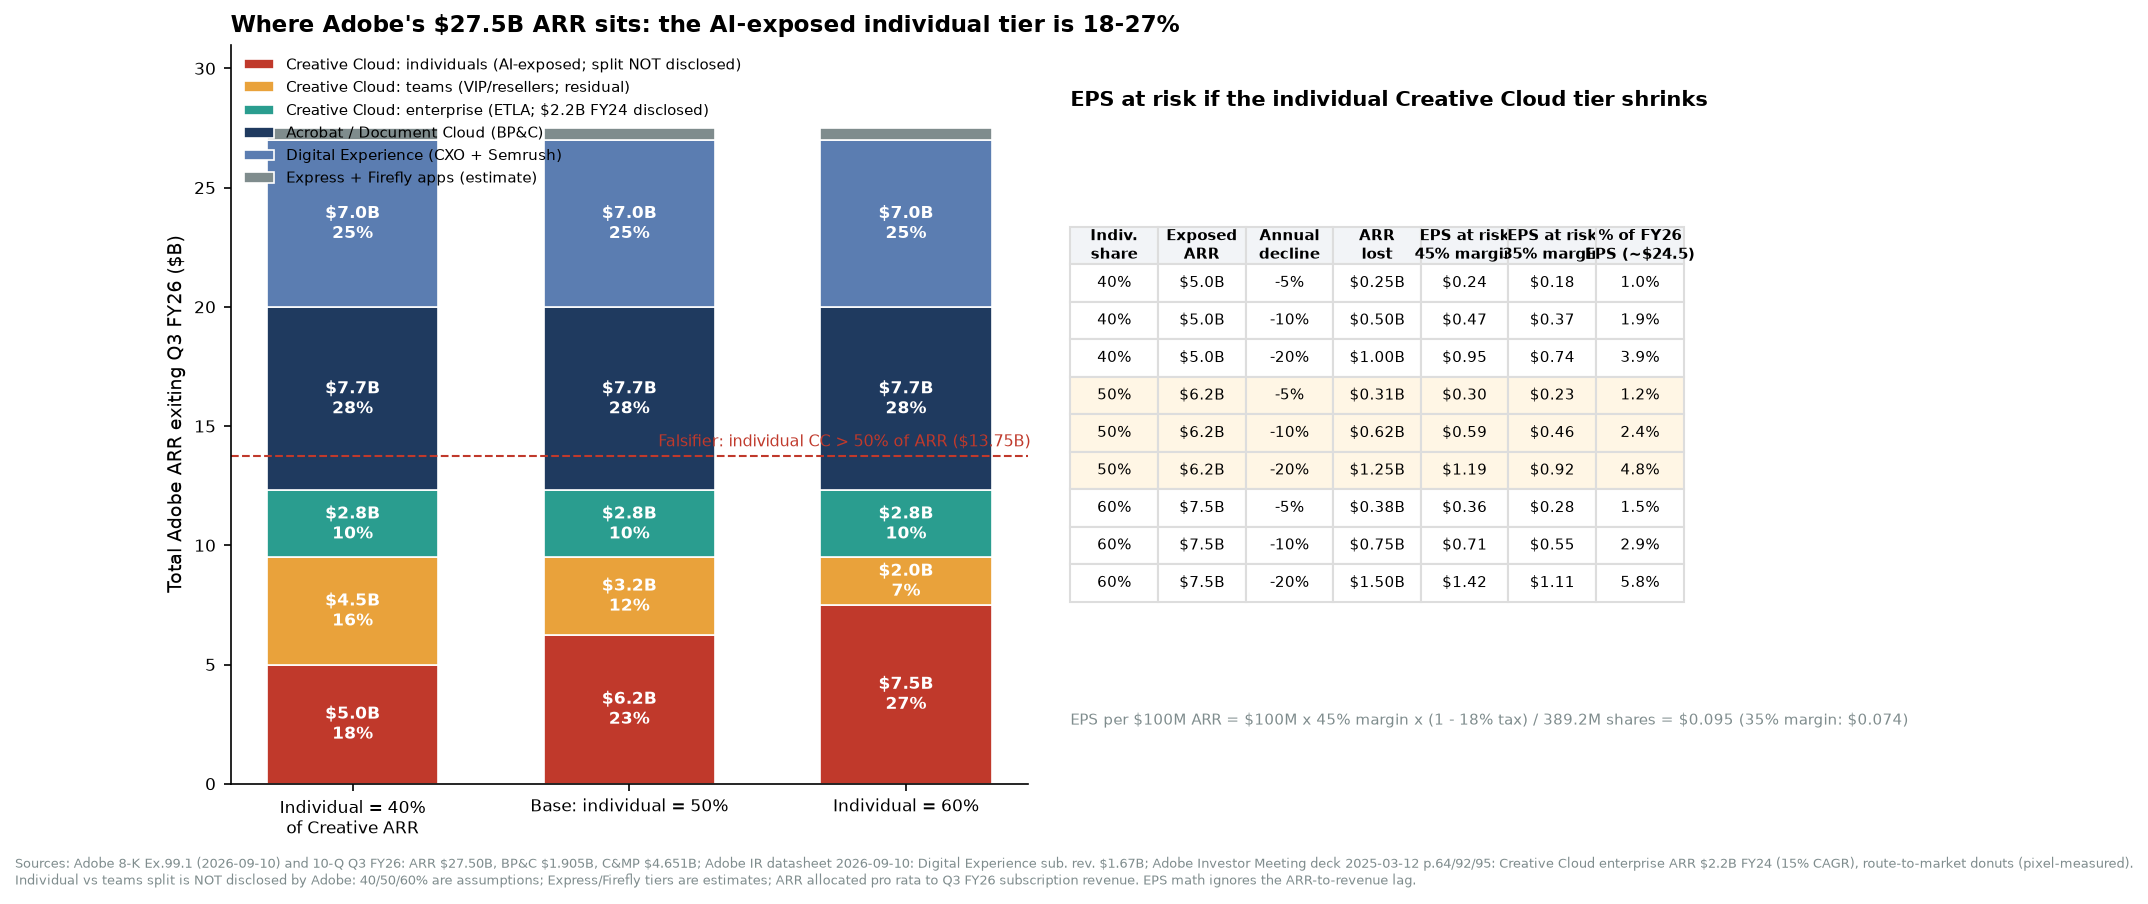
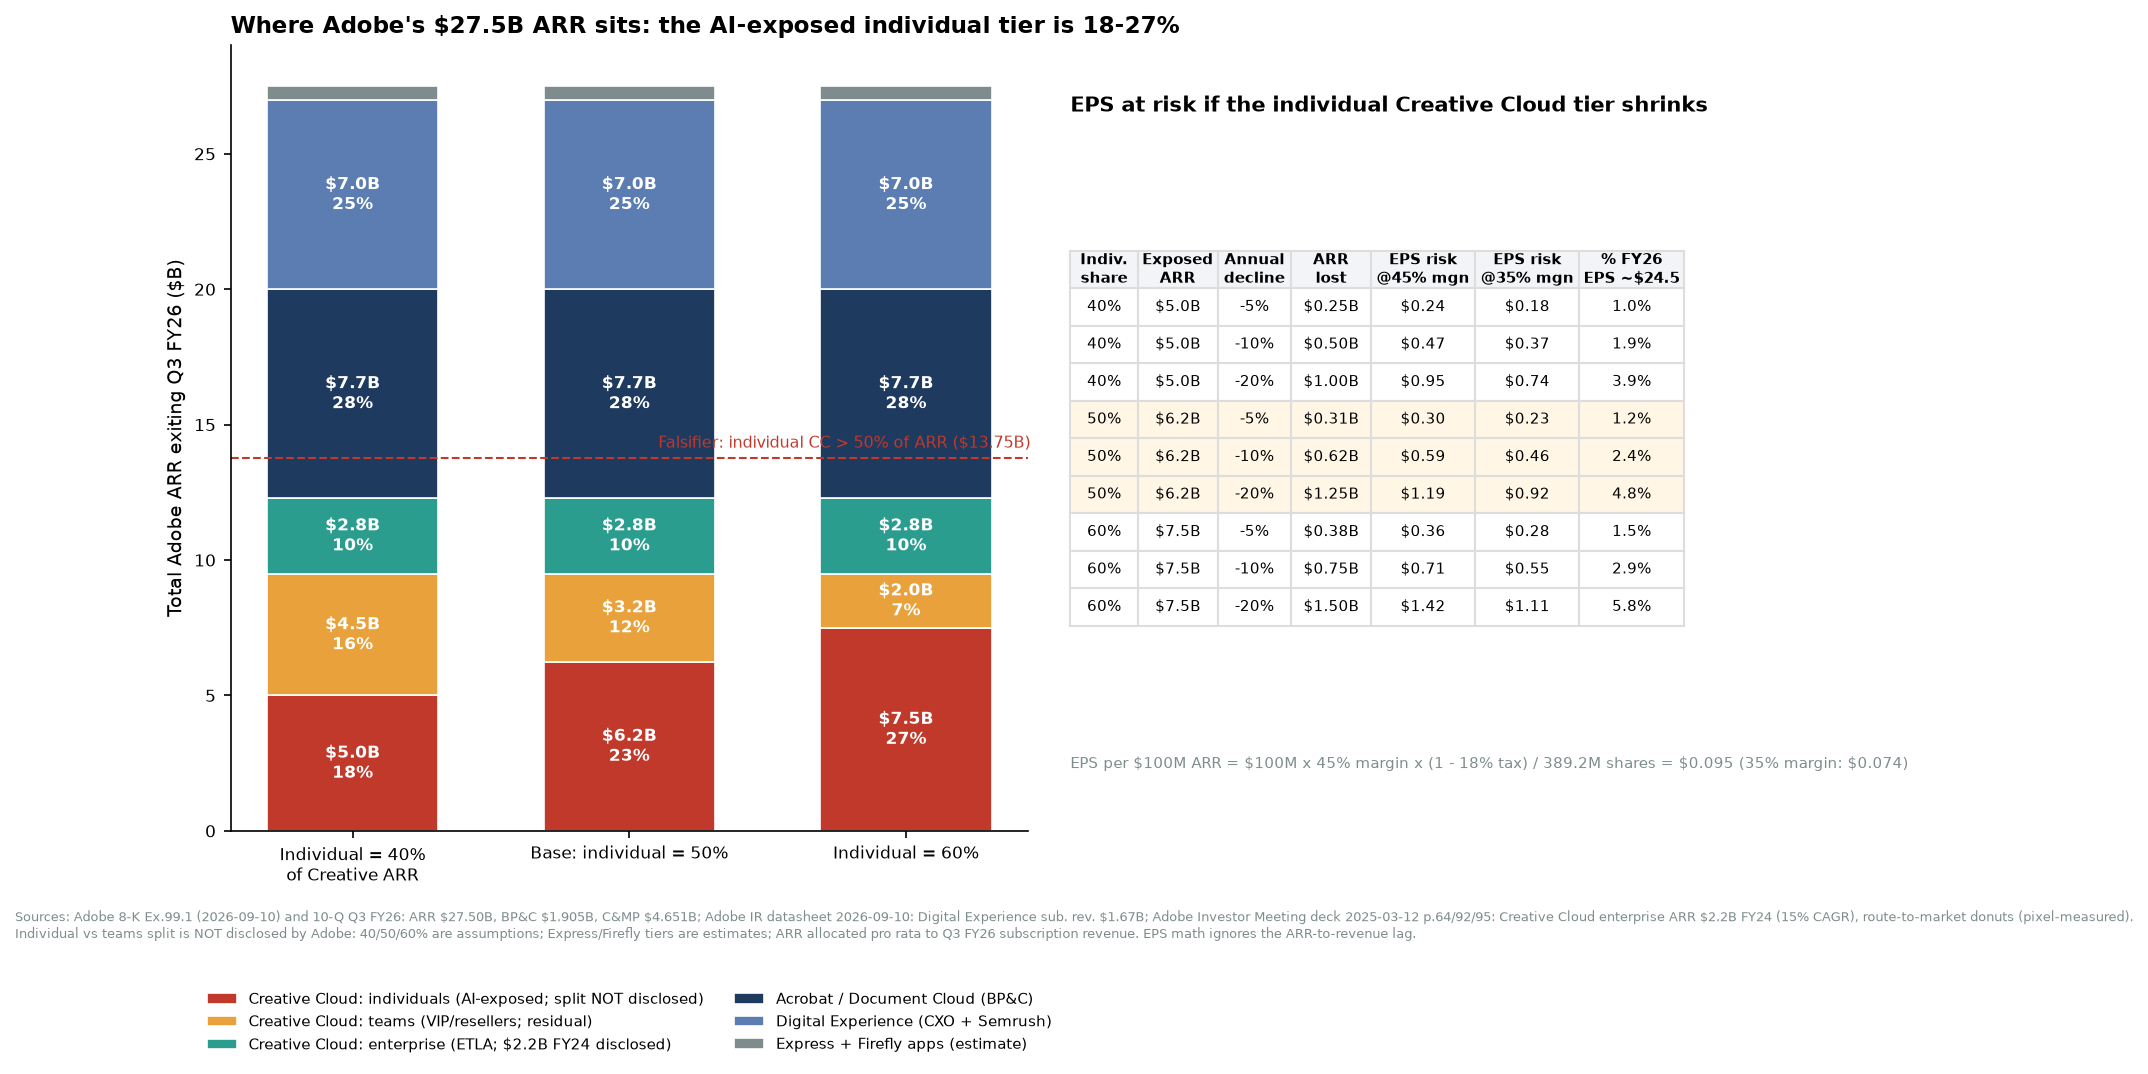
Add C1 revenue-mix workstream: customer-group series, RPO, exposure tiers, peers, O*NET, Ramp, EPS at risk
Claude-Session: https://claude.ai/code/session_0135sjqnFfhmo5TP2aRhoENx

diff --git a/research/tri/c1_mix/methods.md b/research/tri/c1_mix/methods.md
@@ -1,0 +1,36 @@
+# C1 (revenue mix) — methods
+
+Subagent A, 2026-10-02. Contention C1: "Most revenue sits where AI makes Adobe harder to replace (documents, teams/enterprise)."
+Falsifier: individual Creative Cloud > 50% of total ARR, or teams/enterprise Creative Cloud growth below individual growth.
+
+## Host probes (curl -m 12, UA "adbe-pitch-research/1.0 (mmaneet2007@gmail.com)")
+| host / URL | result | used for |
+|---|---|---|
+| www.sec.gov EDGAR browse + Archives | 200 (Archives need -L: 301 on /data/0000796343/...) | Adobe 8-K Ex.99.1 FY24Q1-FY26Q3, 10-Q Q3 FY26, 10-K FY25; DocuSign 8-K/10-Q; Figma 10-Q |
+| efts.sec.gov full-text search | 500 | not used (browse-edgar index used instead) |
+| adobe.com IR transcript PDFs (q2fy26, q3fy26) | 200 | pypdf text, saved in scratchpad only |
+| adobe.com IR financial-documents page, investor datasheet PDFs (Sept 10 2026; Jun 11 2026), Summit 2026 Q&A, Investor Meeting Mar 12 2025 deck (109 pp, image-only) | 200 | ARR/RPO/cRPO/DX series; route-to-market and CC enterprise ARR slides (rendered with pdftoppm, read visually, donuts pixel-measured) |
+| www.onetonline.org summary/details/demand pages, hot_tech list, Software_Skills CSV export | 200 (1.5 s between requests) | O*NET technology skills, In Demand posting shares, national Hot Technology posting counts |
+| ramp.com/data, /data/ai-index (10 MB RSC payload with embedded JSON), /vendors/{canva,figma,openai}, /vendors/categories/* | 200; /vendors/adobe and 5 Adobe slug variants 404; /vendors/docusign 404 | Ramp AI Index series; Ramp Rate vendor pages |
+| query1.finance.yahoo.com chart API | 200 | ADBE close 2026-10-01 = $241.28 (verified) |
+| www.fool.com DocuSign Q2 FY27 transcript | 200 | DNR 103% quote |
+| investor.docusign.com, investor.figma.com, www.canva.com, www.inc.com | 403/404 | fell back to EDGAR / WebSearch; logged in NEEDS_MANUAL |
+
+## Steps
+1. Verified starting facts: price $241.28 (Yahoo daily close 2026-10-01; 10-02 intraday 237.68), shares 389.2M (10-Q cover, as of 2026-09-18), Q3 FY26 C&MP $4,651M vs $4,117M, BP&C $1,905M vs $1,648M, 9M $13,577M/$12,058M and $5,540M/$4,777M (10-Q), ARR $27.50B (+11.2%), FY25 DX subscription $5.41B (8-K Q4 FY25), Semrush closed 2026-04-28 for $1.87B (10-Q Note 3), ~$480M ARR / ~$40M Q2 revenue (8-K Q2 FY26). All matched the prior revenue_quarterly.csv; FY24 C&MP/BP&C there were DERIVED, now replaced by Adobe's recast datasheet values (data/customer_group_revenue_quarterly.csv).
+2. RPO/cRPO FY24Q1-FY26Q3 from 8-K press releases, 10-K FY25 and 10-Q Q3 FY26, cross-checked to the IR datasheet (data/rpo_series.csv).
+3. Quotes (<25 words) extracted from the Q2/Q3 FY26 FactSet corrected transcripts with speaker and date (data/management_quotes.csv). Raw PDFs/text kept in scratchpad only.
+4. Exposure tiers (data/exposure_tiers.csv): Total ARR allocated pro rata to Q3 FY26 subscription revenue (BP&C / DX / C&MP-ex-DX). Creative Cloud enterprise ARR taken from the Investor Meeting deck ($2.2B FY24, 15% CAGR) and grown 1.75 years. Route-to-market donuts (no printed %) were measured by sampling ring pixels at 720 angles: BP&C enterprise ~19%, C&MP enterprise ~46-50% (= Digital Experience $1.30B + ~$0.5B/qtr Creative Cloud enterprise in Q1 FY25, consistent with the $2.2B ARR disclosure). Individual vs teams is NOT disclosed: 40/50/60% sensitivity.
+5. EPS at risk (data/eps_at_risk.csv): $100M ARR x margin x (1-18%) / 389.2M shares = $0.0948 (45%) / $0.0737 (35%); applied to 5/10/20% declines in the individual tier under each sensitivity; FY26 reference EPS = 9M $18.15 + Q4 guide midpoint $6.325 = $24.48.
+6. Peers: DocuSign (8-K Q2 FY27, 10-Q, fool.com transcript), Figma (10-Q Q2 2026 on EDGAR), Canva (secondary; prior ws5 file) -> data/peer_metrics.csv.
+7. Industry: O*NET In Demand pages expose "Percentage" = unique Lightcast postings mentioning the skill / all unique postings for the occupation, Jan 1-Dec 31 2025; Hot Technology list exposes national unique postings out of 46,885,153. Site updated Aug 25 2026; occupation pages "Updated 2026" (no numbered DB release printed on the page) -> data/onet_tech_skills.csv, data/onet_hot_tech_national.csv.
+8. Alt: Ramp AI Index arrays (adoptionOverall, adoptionVendor, adoptionSize) parsed from the page payload; Ramp Rate vendor/category pages -> data/ramp_ai_index.csv.
+
+## Assumptions and limitations
+- ARR-by-tier is a reconstruction; Adobe discloses only two customer groups and total ARR. Pro-rata allocation assumes ARR/revenue ratio is uniform across groups (true ratio 1.049 overall).
+- Creative Cloud enterprise ARR after FY24 is extrapolated (ESTIMATE). Express and consumer Firefly ARR are estimates ($0.3B/$0.2B).
+- Donut pixel measurement: the calibration donut (customer groups, true C&MP share 72.3%) read 60-62% with a clipped render, so treat route shares as +/-5-10 pts; the BP&C and C&MP route donuts were sampled over the full ring (720/720 points) and are more reliable than the FY24 total donut.
+- Teams vs individual growth is not disclosed; the falsifier's second leg is judged on (a) FY21-24 CC enterprise ARR CAGR 15% vs CC subscriptions ex-enterprise ~10% (deck p.85), and (b) FY26 management language (teams/enterprise "continued strength" vs individual ARR expectations lowered). Both are company sources.
+- Peer evidence is adjacent, not identical: Figma competes in UI design, Canva in communicator/SMB design, DocuSign in agreements.
+- O*NET posting shares are 2025 calendar-year postings; they measure stated skill requirements, not seat purchases.
+- Ramp publishes no Adobe vendor data; Ramp Rate adoption rates are shares of buyers within a software category on Ramp's platform, not of all businesses.

diff --git a/research/tri/c1_mix/findings.md b/research/tri/c1_mix/findings.md
@@ -1,0 +1,13 @@
+# C1 findings — revenue mix (Subagent A, 2026-10-02)
+
+**Verdict: C1 SUPPORTED (confidence medium-high on mix, medium on growth); falsifier NOT triggered.**
+
+**Company (SUPPORTS).** Q3 FY26: BP&C (Acrobat/Express) $1.905B +16% vs C&MP $4.651B +13%; 9M +16.0% vs +12.6%. BP&C share of subscription revenue rose from 27.4% (Q1 FY24) to 29.1%. Reconstructed ARR tiers ($27.5B, base case): Acrobat/Document $7.7B (28%), Digital Experience $7.0B (25%), Creative enterprise $2.8B (10%), Creative teams $3.2B (12%), **individual Creative $6.3B (23%)**, Express/Firefly $0.5B. Sensitivity 40/60%: individual $5.0-7.5B = 18-27% of ARR, never near the 50% falsifier. Hard anchor: Adobe's Mar-2025 Investor Meeting deck: Creative Cloud *enterprise* ARR only $2.2B in FY24 (15% CAGR vs ~10% for non-enterprise subscriptions). CFO Sep 10 2026: "continued strength in Creative Cloud across our Teams and Enterprise offerings"; CEO Jun 11 2026: freemium shift "lowers our second half ARR growth expectations from individual subscribers." Evidence against: net new ARR -36/37% YoY (Q3), RPO growth slowed to +8.4% (from +13%) and fell sequentially twice; cRPO flat at 67%.
+
+**Peer (MIXED).** DocuSign (document workflows): revenue +9%, DNR 103% (102% prior), AI-native IAM 15.1% of ARR from 10.8% in two quarters -> incumbent document platforms retain and layer AI (SUPPORTS). Figma NDR 136%, >$100k customers +46%; Canva ~$500M of $4B ARR from >25-seat accounts, +100% (unverified) -> AI-native tools do win business seats (WEAKENS, adjacent categories).
+
+**Industry (SUPPORTS).** O*NET/Lightcast 2025 postings: graphic-designer postings require Illustrator 62%, Photoshop 61%, InDesign 49% vs Figma 11%, Canva 7%; nationally Photoshop 112k postings vs Canva 74k, Figma 59k. Professional demand remains Adobe-denominated.
+
+**Alt (NEUTRAL).** Ramp: 56% of businesses pay for AI (Aug 2026, +11pp); Canva 87% / Figma 99% of category buyers, flat YoY; no Adobe vendor data (UNAVAILABLE).
+
+**EPS.** $100M ARR = $0.095. Individual tier -10%/yr = $0.47-0.71 EPS (1.9-2.9% of FY26 ~$24.5); -20% = $0.95-1.42 (3.9-5.8%).

diff --git a/research/tri/NEEDS_MANUAL.md b/research/tri/NEEDS_MANUAL.md
@@ -23,3 +23,8 @@
 | concessions | Adobe teams/enterprise vs individual Creative Cloud ARR split | research/tri/c1_mix/data/exposure_tiers.csv (Subagent A) | not disclosed by Adobe; concessions_eps.csv uses ESTIMATES $8.5B T/E and $7.0B individual; swap in tiers when written |
 | concessions | FactSet consensus FY27 net new ARR ($2.34B) and EPS (~$27.5) | FactSet / Bloomberg terminal | not verifiable from open sources; used as given |
 | c2_content | CORRECTION to row above: Meta Q1 2024 and Q2 2024 transcripts WERE found | https://s21.q4cdn.com/399680738/files/doc_financials/2024/q2/META-Q2-2024-Earnings-Call-Transcript.pdf | Meta IR CDN (s21.q4cdn.com) is reachable; Q2 2024 call: "more than one million advertisers using at least one of these solutions in the past month". No manual download needed. |
+| tri/c1_mix | Canva Inc. interview (Cameron Adams, Feb 2026) — $4B ARR, ~$500M from >25-seat business customers | https://www.inc.com/jennifer-conrad/were-still-only-1-percent-of-the-way-there-canva-co-founder-cameron-adams-on-hitting-4b-arr-the-power-of-free-and-that-ipo/91305219 | inc.com returns 403; values taken from WebSearch snippets (verified=N) |
+| tri/c1_mix | DocuSign Q2 FY27 prepared remarks PDF (DNR 103%, customers >$300k ACV) | https://investor.docusign.com (Quarterly results, Sep 3 2026) | site 403; DNR taken from fool.com transcript; customer count unverified |
+| tri/c1_mix | Figma Q2 2026 shareholder letter (any revenue-by-plan or enterprise mix) | https://investor.figma.com | site 403; 10-Q used instead (no plan-mix disclosure) |
+| tri/c1_mix | Adobe Investor Meeting Mar 12 2025 deck, native version with numbers for route-to-market donuts (p.20/92/95) | https://www.adobe.com/cc-shared/assets/investor-relations/pdfs/21305202/atrg43rwge.pdf | image-only PDF; donut shares were pixel-measured (+/-5-10 pts). Also check any sell-side note quoting Adobe's individual vs teams Creative Cloud ARR split (not public) |
+| tri/c1_mix | Ramp vendor-level Adobe spend/adoption | https://ramp.com/vendors/adobe | 404 on all Adobe slugs; request from Ramp Economics Lab if needed |
